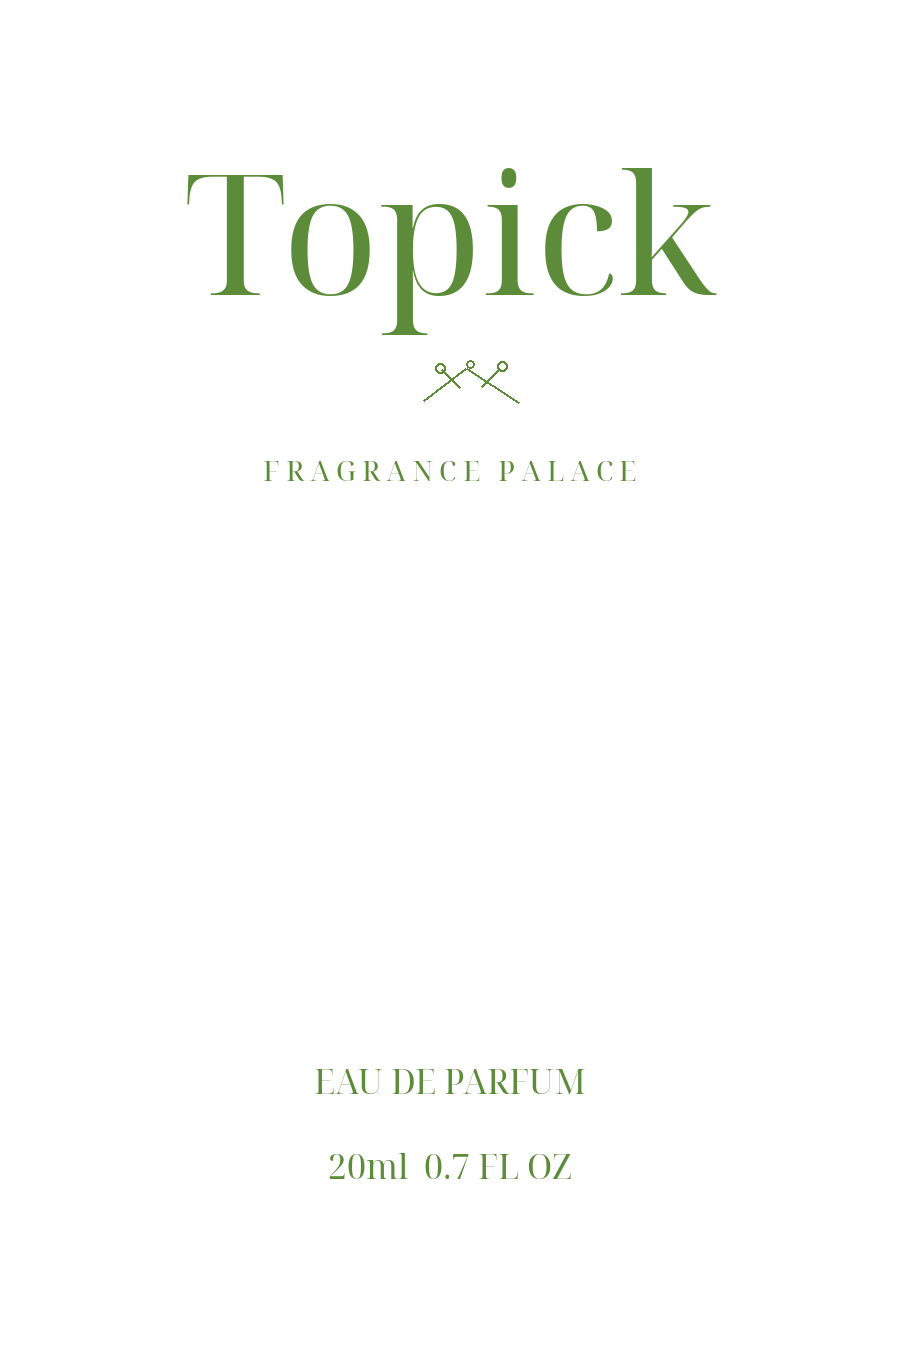
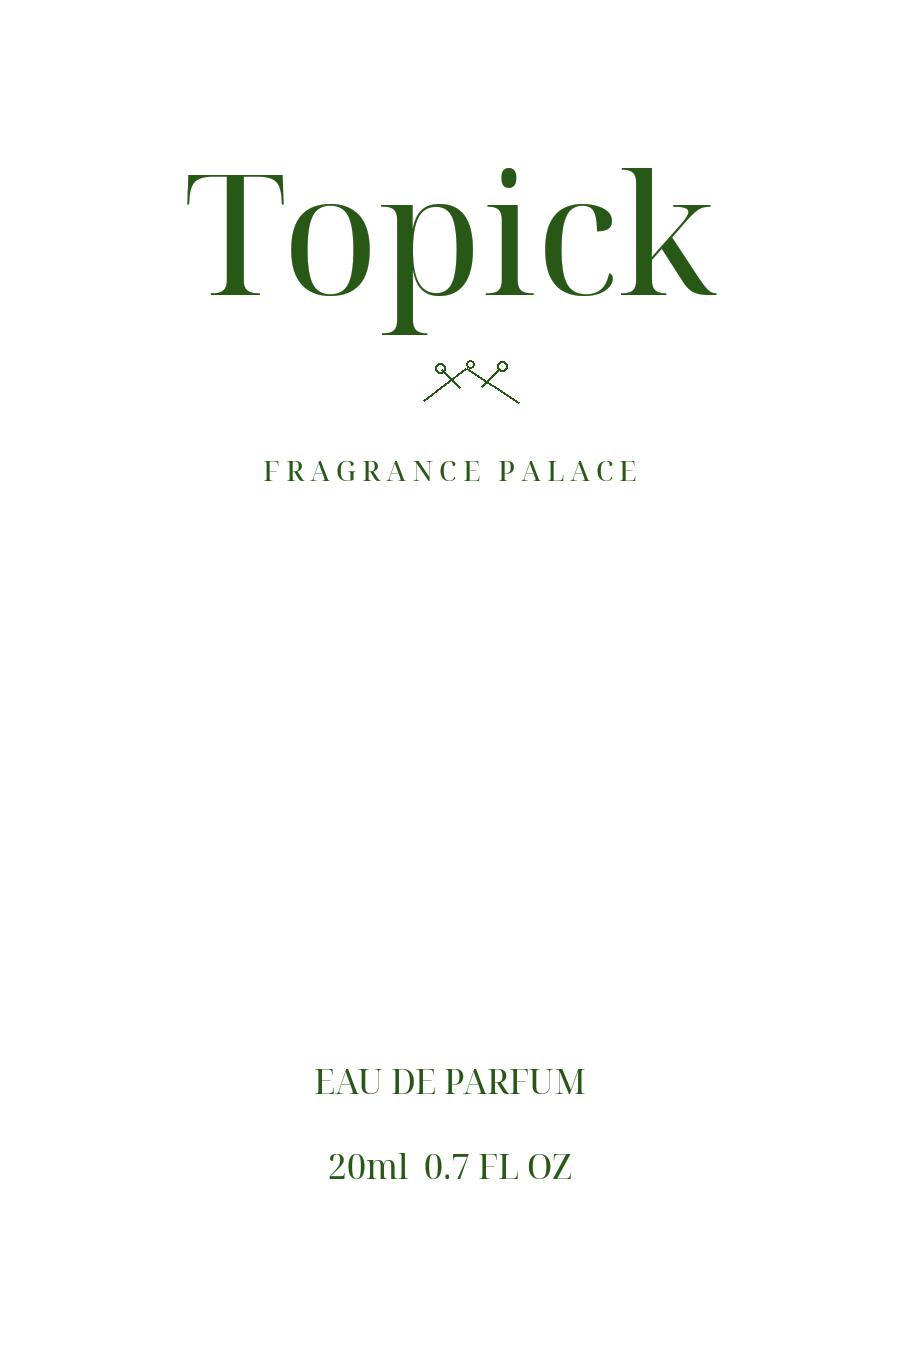
Show the clear bottle with deeper inks and rename the wrap label.
Use a clear cylindrical bottle for each cap, print the four transparent inks darker so they read on the glass, and call the existing wraparound label 珠光霧面標籤.

diff --git a/components/LabelStep.tsx b/components/LabelStep.tsx
@@ -1,7 +1,8 @@
 "use client";
 
+import { ClearBottlePreview } from "@/components/ClearBottlePreview";
 import { CAP_OPTIONS, capOption, type CapColor } from "@/lib/caps";
-import { CLEAR_LABEL_OPTIONS, clearLabelOption, type ClearLabelColor, type LabelStyle } from "@/lib/clearLabel";
+import { CLEAR_LABEL_OPTIONS, labelStyleLabel, type ClearLabelColor, type LabelStyle } from "@/lib/clearLabel";
 import { hasCjk, printedName } from "@/lib/lettering";
 
 type Props = {
@@ -29,7 +30,6 @@ export function LabelStep({
 }: Props) {
   const bottle = capOption(capColor);
   const clear = labelStyle === "clear";
-  const ink = clearLabelOption(labelColor);
   const trimmed = labelName.trim();
   const cjk = hasCjk(trimmed);
   const printed = trimmed ? printedName(trimmed) : "AQUA.CHL";
@@ -41,7 +41,7 @@ export function LabelStep({
         <p className="text-[11px] tracking-[0.22em] text-gold-dark uppercase">第二步</p>
         <h2 className="mt-2 font-serif text-3xl">瓶身標籤</h2>
         <p className="mt-3 max-w-xl text-sm leading-relaxed text-muted">
-          只改標籤中間個名。可以揀原有標籤，或者透明標籤。透明標籤有陶、藍、金、綠四色。TOPICK、花紋、FRAGRANCE PALACE、EAU DE PARFUM 同 20ml 印死，不能改。再揀一顆瓶蓋。
+          只改標籤中間個名。可以揀珠光霧面標籤，或者透明標籤。透明標籤有陶、藍、金、綠四色。TOPICK、花紋、FRAGRANCE PALACE、EAU DE PARFUM 同 20ml 印死，不能改。再揀一顆瓶蓋。
         </p>
       </header>
       <label className="block">
@@ -61,8 +61,8 @@ export function LabelStep({
         <div className="mt-3 grid grid-cols-2 gap-2">
           {(
             [
-              ["classic", "原有標籤"],
-              ["clear", "透明標籤"],
+              ["classic", labelStyleLabel("classic")],
+              ["clear", labelStyleLabel("clear")],
             ] as const
           ).map(([id, label]) => (
             <button
@@ -122,25 +122,7 @@ export function LabelStep({
         </ul>
       </fieldset>
       {clear ? (
-        <figure className="@container relative mx-auto w-full max-w-md">
-          <img src="/bottles/bottle-clear.png" alt="" className="w-full" />
-          <img src={`/caps/cap-${capColor}.png`} alt="" className="pointer-events-none absolute object-contain" style={{ left: "31%", top: "2.5%", width: "38%", height: "28%" }} />
-          <img src={ink.src} alt="" className="pointer-events-none absolute object-contain" style={{ left: "34.5%", top: "41.5%", width: "31%", height: "35%" }} />
-          <div className="pointer-events-none absolute flex items-center justify-center overflow-hidden text-center" style={{ left: "32%", width: "36%", top: "55%", height: "7%" }}>
-            <span
-              className="font-display leading-none whitespace-nowrap"
-              style={{
-                color: trimmed ? ink.ink : `${ink.ink}59`,
-                fontSize: length > 14 ? "2.6cqw" : length > 9 ? "3.1cqw" : "3.6cqw",
-                letterSpacing: cjk && trimmed ? "0.06em" : "0.08em",
-                textTransform: cjk && trimmed ? "none" : "uppercase",
-              }}
-            >
-              {printed}
-            </span>
-          </div>
-          <figcaption className="sr-only">{ink.label}色透明標籤，{bottle.label}色瓶蓋。只可以改中間個名。</figcaption>
-        </figure>
+        <ClearBottlePreview capColor={capColor} labelColor={labelColor} labelName={labelName} />
       ) : (
         <figure className="@container relative mx-auto w-full max-w-md">
           <img src={bottle.bottle} alt={`${bottle.label}色瓶蓋的瓶身`} className="w-full" />
@@ -159,7 +141,7 @@ export function LabelStep({
               {printed}
             </span>
           </div>
-          <figcaption className="sr-only">瓶身預覽，名稱會出現在標籤中間。</figcaption>
+          <figcaption className="sr-only">珠光霧面標籤預覽，名稱會出現在標籤中間。</figcaption>
         </figure>
       )}
     </div>

diff --git a/components/ClearBottlePreview.tsx b/components/ClearBottlePreview.tsx
@@ -1,0 +1,56 @@
+import { capOption, type CapColor } from "@/lib/caps";
+import { clearLabelOption, type ClearLabelColor } from "@/lib/clearLabel";
+import { printedName, printedNameStyle } from "@/lib/lettering";
+
+/**
+ * Label artwork sits on the glass of the official square product shots.
+ * Fractions of the photo: the ink is transparent everywhere else, so the
+ * glass and dip tube stay visible.
+ */
+export const CLEAR_BOTTLE_LABEL = {
+  left: 42.5,
+  top: 51.57,
+  width: 13.57,
+  height: 20.36,
+};
+
+type Props = {
+  capColor: CapColor | string;
+  labelColor: ClearLabelColor | string;
+  labelName: string;
+  className?: string;
+};
+
+export function ClearBottlePreview({ capColor, labelColor, labelName, className }: Props) {
+  const bottle = capOption(capColor);
+  const ink = clearLabelOption(labelColor);
+  const trimmed = labelName.trim();
+  const printed = trimmed ? printedName(trimmed) : "AQUA.CHL";
+  const frame = CLEAR_BOTTLE_LABEL;
+  const name = {
+    left: `${frame.left + frame.width * 0.08}%`,
+    width: `${frame.width * 0.84}%`,
+    top: `${frame.top + frame.height * 0.5}%`,
+    height: `${frame.height * 0.16}%`,
+  };
+
+  return (
+    <figure className={`@container relative mx-auto w-full ${className ?? "max-w-md"}`}>
+      <img src={bottle.clear} alt="" className="w-full" />
+      <img
+        src={ink.src}
+        alt=""
+        className="pointer-events-none absolute"
+        style={{ left: `${frame.left}%`, top: `${frame.top}%`, width: `${frame.width}%`, height: `${frame.height}%` }}
+      />
+      <div className="pointer-events-none absolute flex items-center justify-center overflow-hidden text-center" style={name}>
+        <span className="whitespace-nowrap" style={{ ...printedNameStyle(printed, 2.15), color: trimmed ? ink.ink : `${ink.ink}59` }}>
+          {printed}
+        </span>
+      </div>
+      <figcaption className="sr-only">
+        {ink.label}色透明標籤，{bottle.label}色瓶蓋。玻璃同吸管仍然睇到，只可以改中間個名。
+      </figcaption>
+    </figure>
+  );
+}

diff --git a/lib/clearLabel.ts b/lib/clearLabel.ts
@@ -5,10 +5,10 @@ export const CLEAR_LABEL_COLORS = ["terracotta", "blue", "gold", "green"] as con
 export type ClearLabelColor = (typeof CLEAR_LABEL_COLORS)[number];
 
 export const CLEAR_LABEL_OPTIONS: { id: ClearLabelColor; label: string; src: string; ink: string }[] = [
-  { id: "terracotta", label: "陶", src: "/labels/clear-terracotta.png", ink: "#9e4a34" },
-  { id: "blue", label: "藍", src: "/labels/clear-blue.png", ink: "#2e669e" },
-  { id: "gold", label: "金", src: "/labels/clear-gold.png", ink: "#b89234" },
-  { id: "green", label: "綠", src: "/labels/clear-green.png", ink: "#5c8c3a" },
+  { id: "terracotta", label: "陶", src: "/labels/clear-terracotta.png", ink: "#7c2e1c" },
+  { id: "blue", label: "藍", src: "/labels/clear-blue.png", ink: "#123a72" },
+  { id: "gold", label: "金", src: "/labels/clear-gold.png", ink: "#9c6c0e" },
+  { id: "green", label: "綠", src: "/labels/clear-green.png", ink: "#285816" },
 ];
 
 export function isLabelStyle(value: unknown): value is LabelStyle {
@@ -24,5 +24,5 @@ export function clearLabelOption(id: string | undefined) {
 }
 
 export function labelStyleLabel(style: string | undefined) {
-  return style === "clear" ? "透明標籤" : "原有標籤";
+  return style === "clear" ? "透明標籤" : "珠光霧面標籤";
 }

diff --git a/lib/caps.ts b/lib/caps.ts
@@ -5,12 +5,13 @@ export const CAP_OPTIONS: {
   id: CapColor;
   label: string;
   bottle: string;
+  clear: string;
   thumb: string;
 }[] = [
-  { id: "pink", label: "粉", bottle: "/bottles/bottle-pink-blank.jpg", thumb: "/caps/cap-pink.jpg" },
-  { id: "purple", label: "紫", bottle: "/bottles/bottle-purple-blank.jpg", thumb: "/caps/cap-purple.jpg" },
-  { id: "green", label: "綠", bottle: "/bottles/bottle-green-blank.jpg", thumb: "/caps/cap-green.jpg" },
-  { id: "white", label: "白", bottle: "/bottles/bottle-white-blank.jpg", thumb: "/caps/cap-white.jpg" },
+  { id: "pink", label: "粉", bottle: "/bottles/bottle-pink-blank.jpg", clear: "/bottles/clear-pink.jpg", thumb: "/caps/cap-pink.jpg" },
+  { id: "purple", label: "紫", bottle: "/bottles/bottle-purple-blank.jpg", clear: "/bottles/clear-purple.jpg", thumb: "/caps/cap-purple.jpg" },
+  { id: "green", label: "綠", bottle: "/bottles/bottle-green-blank.jpg", clear: "/bottles/clear-green.jpg", thumb: "/caps/cap-green.jpg" },
+  { id: "white", label: "白", bottle: "/bottles/bottle-white-blank.jpg", clear: "/bottles/clear-white.jpg", thumb: "/caps/cap-white.jpg" },
 ];
 
 export function isCapColor(value: unknown): value is CapColor {

diff --git a/components/studio/OrderList.tsx b/components/studio/OrderList.tsx
@@ -6,6 +6,7 @@ import { capOption } from "@/lib/caps";
 import { clearLabelOption, labelStyleLabel } from "@/lib/clearLabel";
 import { boxNoteLines } from "@/lib/boxCopy";
 import { BoxStoryBlock } from "@/components/BoxStoryBlock";
+import { ClearBottlePreview } from "@/components/ClearBottlePreview";
 import { downloadBoxFront } from "@/lib/boxFrontExport";
 import { artworkDownloadName, formatMacauTime, studioDownloadUrl, studioMediaUrl, type ArtworkSlot, type OrderSummary } from "@/lib/orderRecord";
 import type { DesignState } from "@/lib/types";
@@ -79,6 +80,11 @@ export function OrderList() {
                   </span>
                   <span className="ml-2">盒上名稱 {order.boxName || "（未填）"}</span>
                 </p>
+                {order.labelStyle === "clear" ? (
+                  <div className="mt-3 max-w-[11rem]">
+                    <ClearBottlePreview capColor={order.capColor} labelColor={order.labelColor} labelName={order.labelName} className="max-w-none" />
+                  </div>
+                ) : null}
                 <div className="mt-3 max-w-xl">
                   <BoxStoryBlock
                     story={order.boxStory}

diff --git a/components/studio/OrderDetail.tsx b/components/studio/OrderDetail.tsx
@@ -7,6 +7,7 @@ import { clearLabelOption, labelStyleLabel } from "@/lib/clearLabel";
 import { boxNoteLines } from "@/lib/boxCopy";
 import { printedName } from "@/lib/lettering";
 import { BoxStoryBlock } from "@/components/BoxStoryBlock";
+import { ClearBottlePreview } from "@/components/ClearBottlePreview";
 import { DielinePreview } from "@/components/DielinePreview";
 import { PackViewer } from "@/components/PackViewer";
 import { downloadBoxFront } from "@/lib/boxFrontExport";
@@ -129,6 +130,14 @@ export function OrderDetail({ id }: { id: string }) {
         <p className="mt-2 text-muted">
           濃度 {Math.round(order.concentration)}%
         </p>
+        {order.labelStyle === "clear" ? (
+          <ClearBottlePreview
+            capColor={order.capColor}
+            labelColor={order.labelColor}
+            labelName={order.labelName}
+            className="mt-4 max-w-xs"
+          />
+        ) : null}
         <dl className="mt-4 space-y-2">
           <Row label="香氣前調" value={order.notes.top.join(" · ")} />
           <Row label="香氣中調" value={order.notes.middle.join(" · ")} />

diff --git a/components/ResultStep.tsx b/components/ResultStep.tsx
@@ -2,6 +2,7 @@
 
 import { useEffect, useRef, useState, useSyncExternalStore } from "react";
 import { ArtworkZoom } from "@/components/ArtworkZoom";
+import { ClearBottlePreview } from "@/components/ClearBottlePreview";
 import { OrderQr } from "@/components/OrderQr";
 import { capOption } from "@/lib/caps";
 import { boxCopyFromProduct } from "@/lib/boxCopy";
@@ -207,6 +208,10 @@ export function ResultStep({ product, design, initialContact = null }: Props) {
         <h2 className="mt-2 font-serif text-3xl">已收到你的訂製要求</h2>
         <p className="mt-3 text-sm leading-relaxed text-muted">請填寫微信帳號、電話、簡稱同要訂製多少個，我們之後會聯絡你。</p>
       </header>
+
+      {design.labelStyle === "clear" ? (
+        <ClearBottlePreview capColor={design.capColor} labelColor={design.labelColor} labelName={design.labelName} />
+      ) : null}
 
       {cardReady && orderId ? (
         <section ref={cardRef} className="border border-line bg-ivory px-4 py-4 text-sm" role="status" aria-label="訂單">
